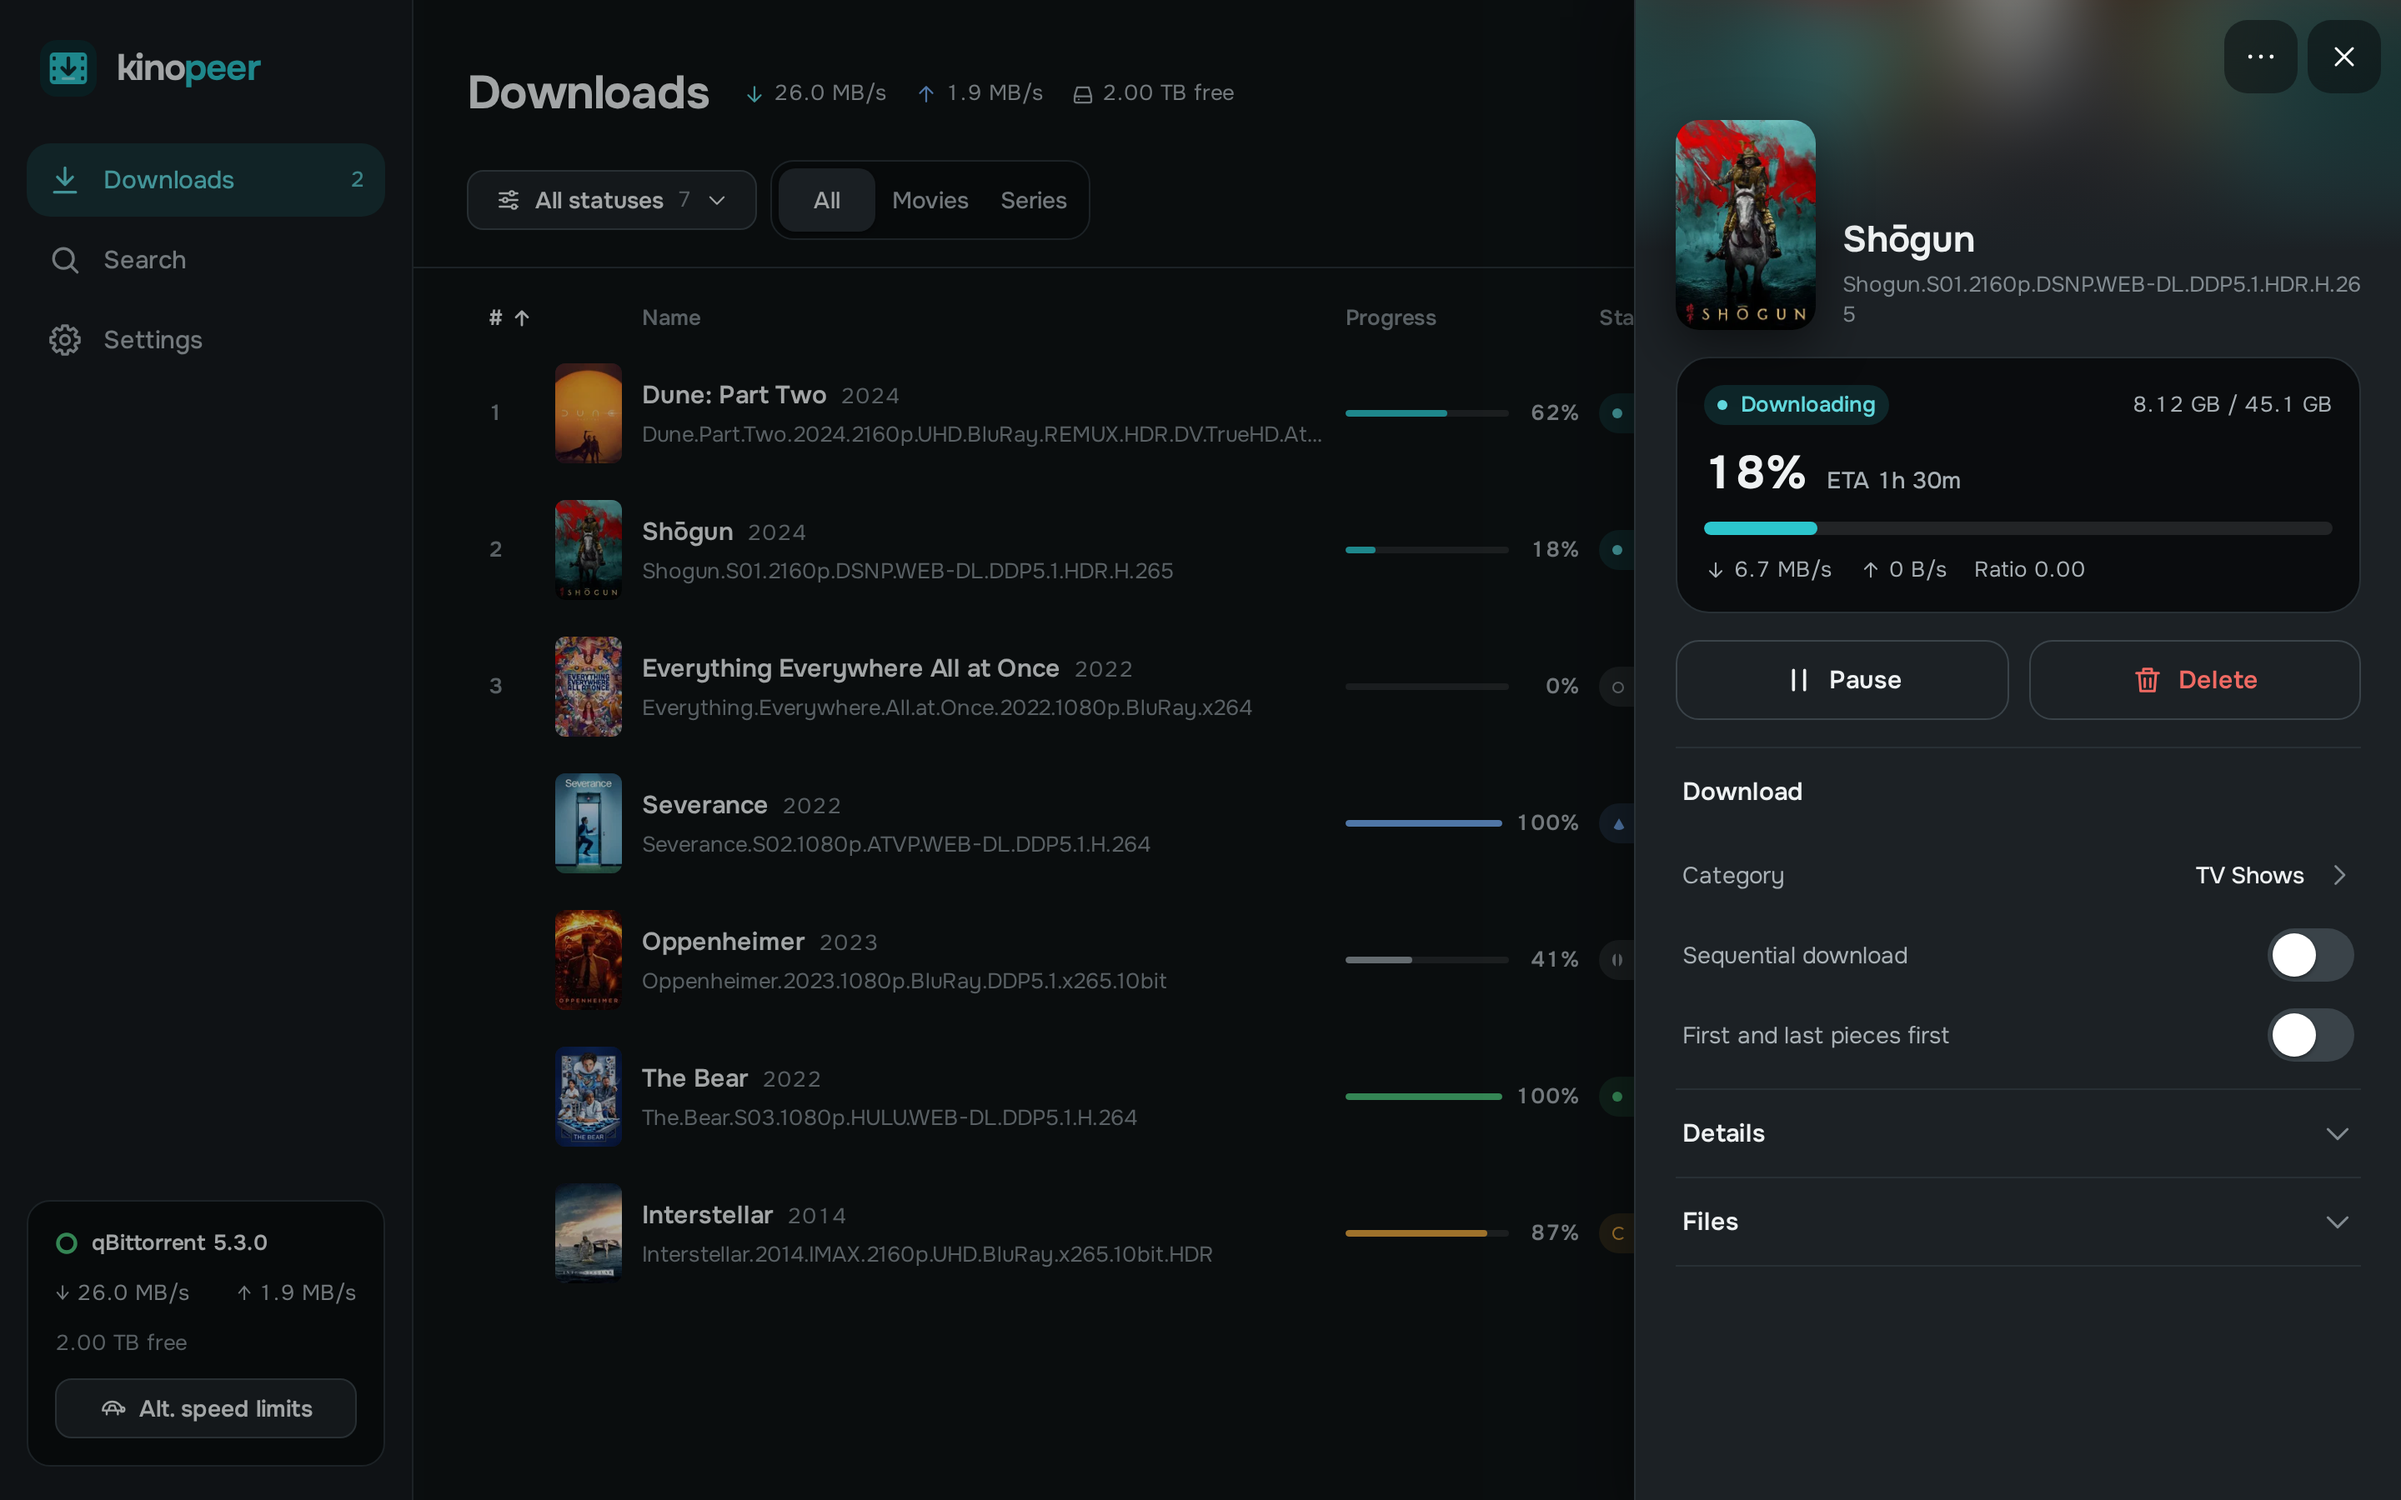
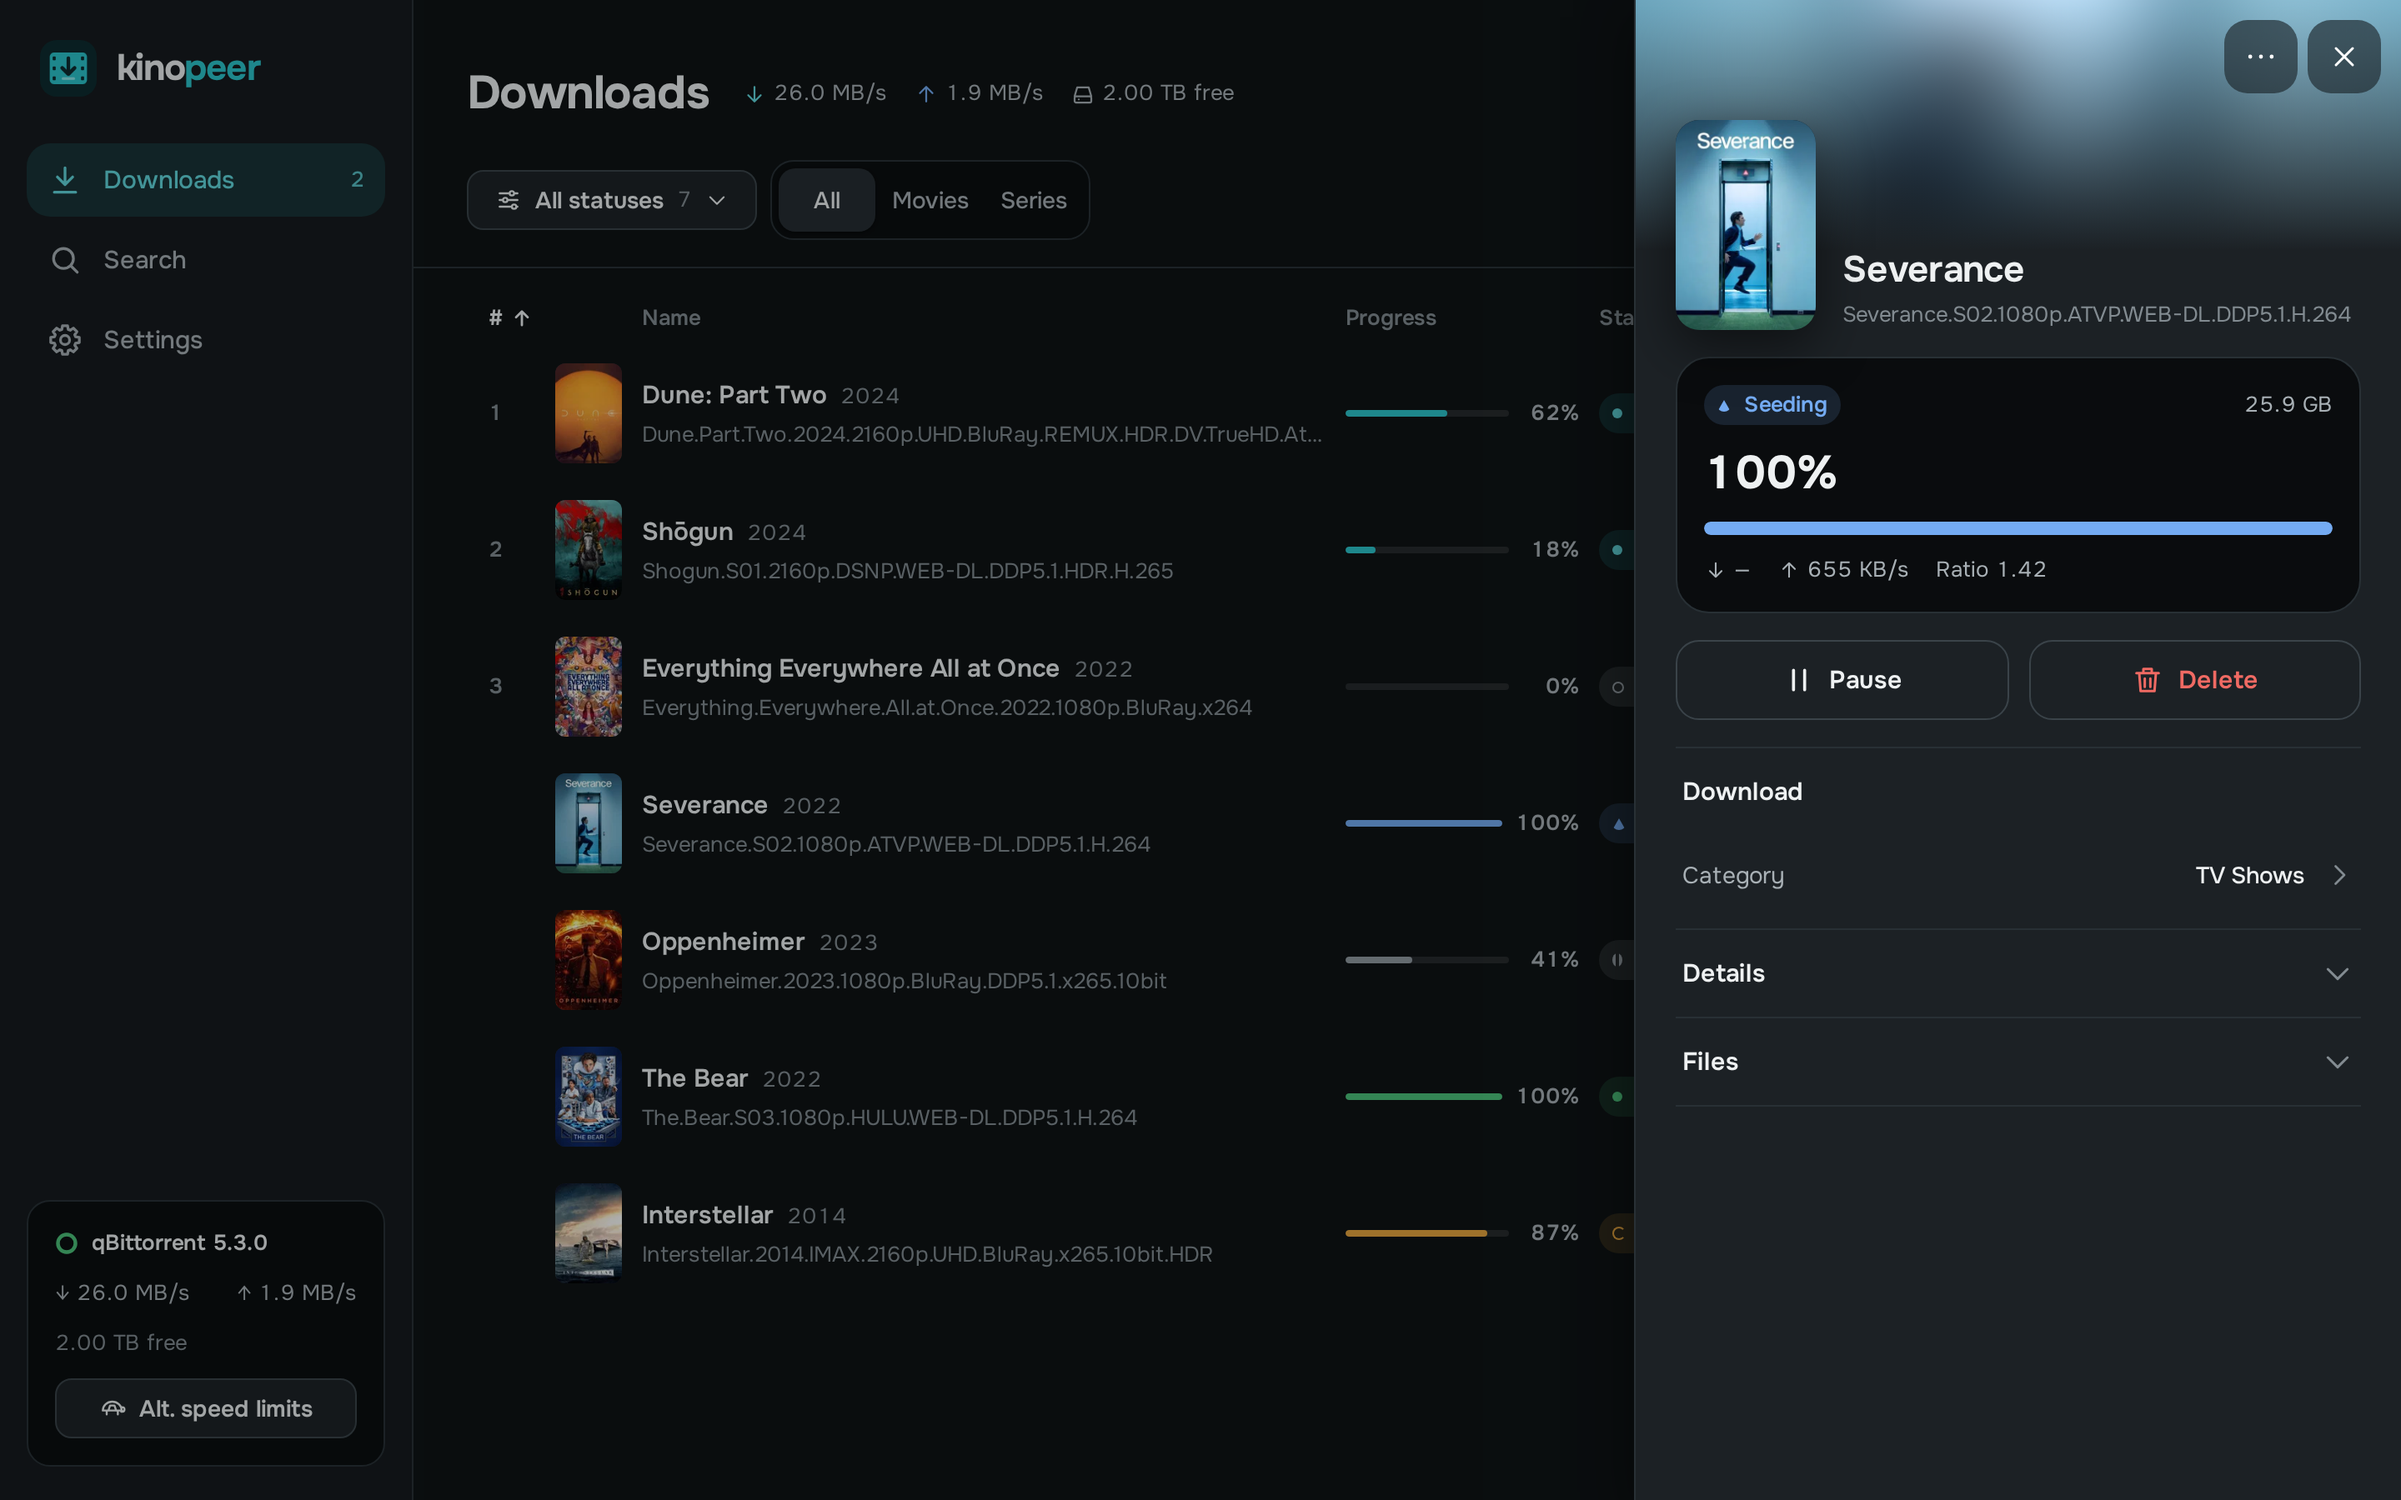
docs: shoot the store's drawer with a release name that fits on one line

diff --git a/e2e/readme.shots.ts b/e2e/readme.shots.ts
@@ -114,9 +114,11 @@ test.describe('desktop', () => {
   })
 
   test('torrent details', async ({ page }) => {
-    await openApp(page, '/torrent/a2', { ...options, downloadsView: 'list' })
+    // Severance, whose release name fits on one line in the drawer: the drawer breaks a longer one
+    // anywhere, leaving Shōgun's last digit on a line of its own.
+    await openApp(page, '/torrent/a4', { ...options, downloadsView: 'list' })
     // On desktop the torrent opens in a drawer over Downloads.
-    await expect(page.getByRole('dialog', { name: 'Shōgun' })).toBeVisible()
+    await expect(page.getByRole('dialog', { name: 'Severance' })).toBeVisible()
     await everyPoster(page, '.dl-row-poster')
     // The drawer puts focus on its close button, whose ring would show without a click first.
     await page.evaluate(() => (document.activeElement as HTMLElement | null)?.blur())
